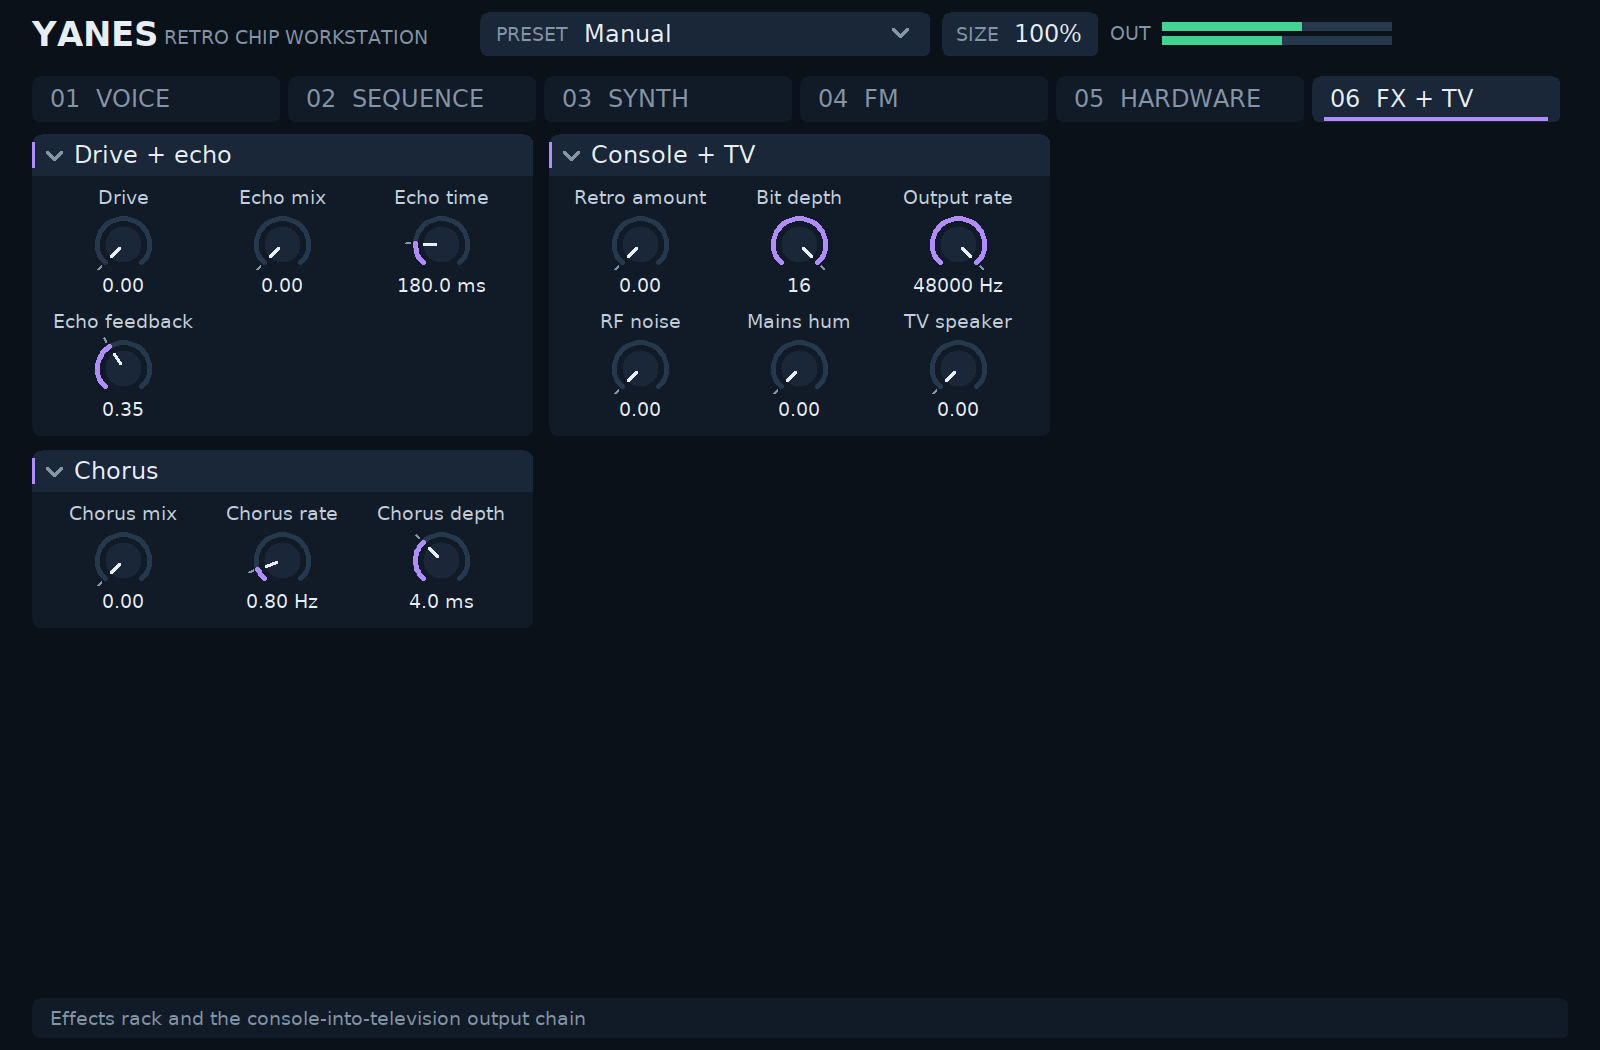
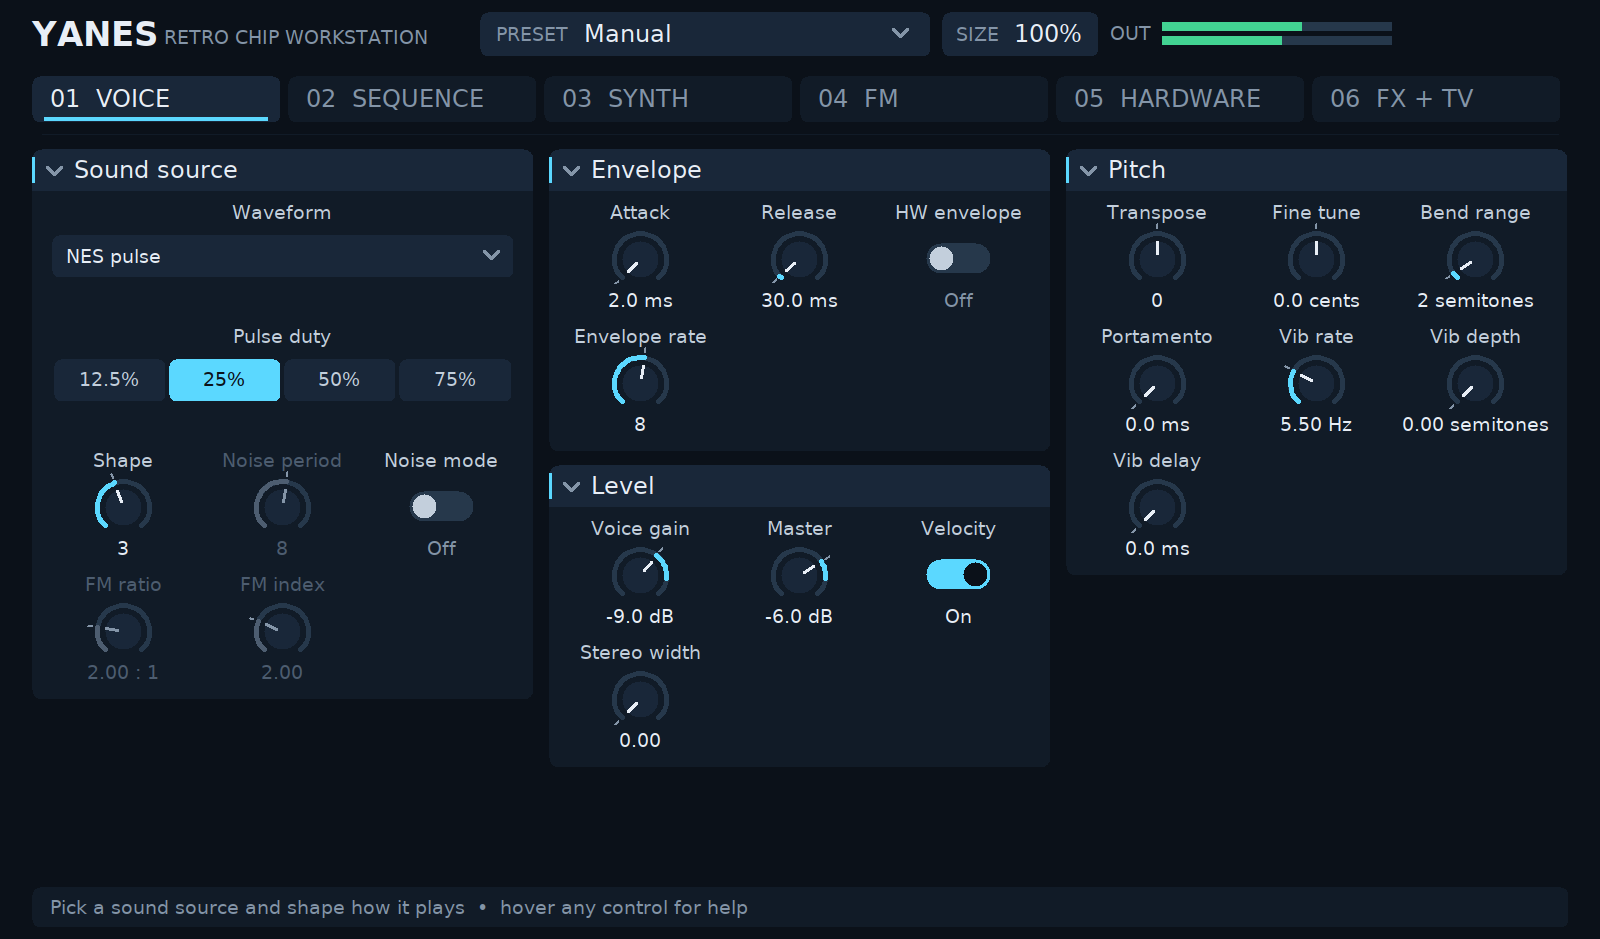
docs: show voice controls in screenshot

diff --git a/README.md b/README.md
@@ -4,7 +4,7 @@ YANES is a clean-room CLAP instrument for NES and other retro console, computer,
 It builds on Linux, Windows, and macOS and is designed for Bitwig Studio and other CLAP hosts. A
 custom editor is included on all three platforms (X11 on Linux, Win32, and Cocoa).
 
-![YANES editor showing the FX and console-TV controls](docs/screenshots/editor.png)
+![YANES editor showing the Voice controls](docs/screenshots/editor.png)
 
 ## What is implemented
 
